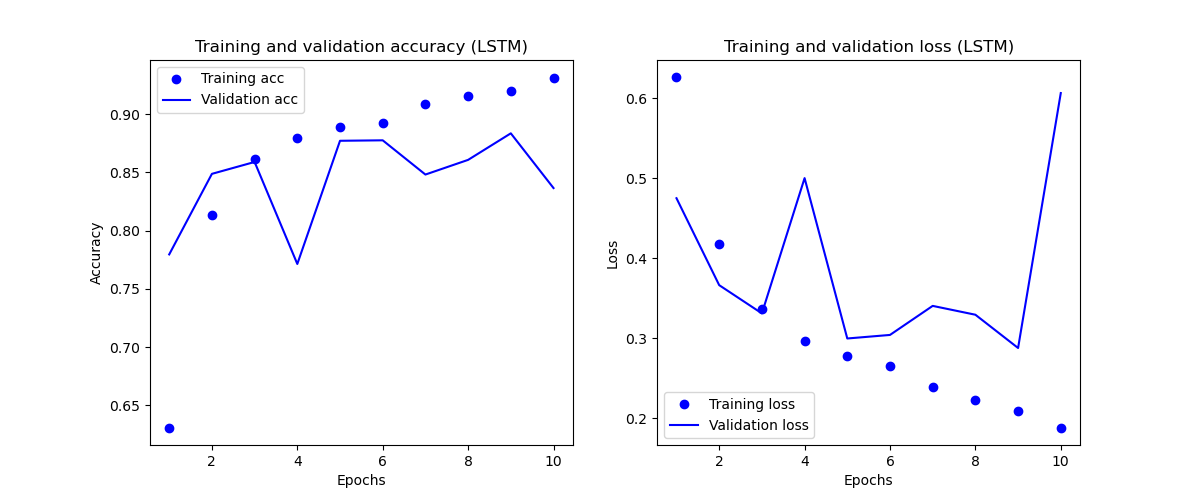
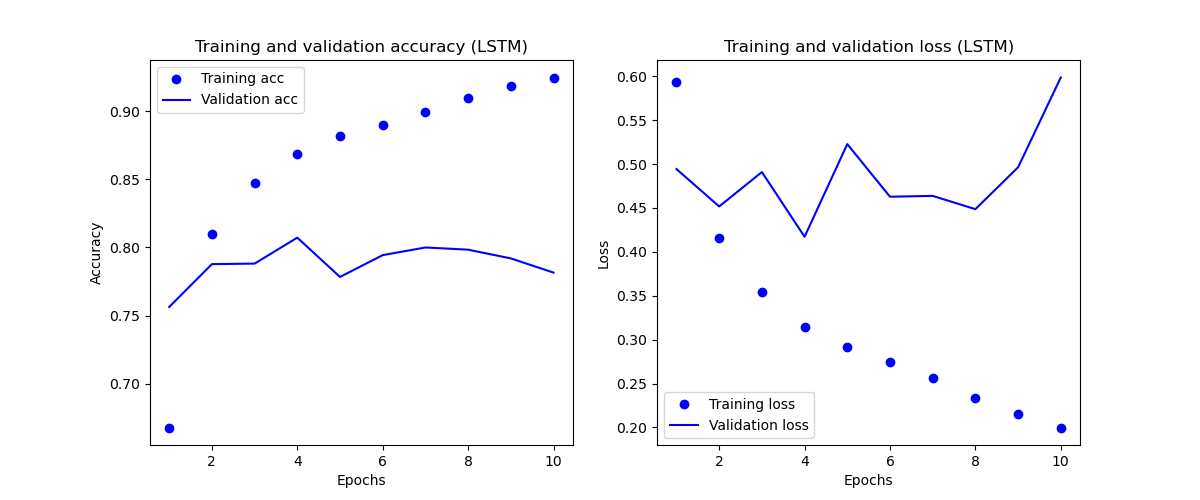
update

diff --git a/RNN/RNNClassifier.py b/RNN/RNNClassifier.py
@@ -4,14 +4,15 @@
 import numpy as np
 import matplotlib.pyplot as plt
 # Use modern TensorFlow Keras paths for all imports
+import tensorflow as tf
 from tensorflow.keras.datasets import imdb
 from tensorflow.keras.preprocessing.sequence import pad_sequences
 from tensorflow.keras.models import Sequential
 from tensorflow.keras.layers import Embedding, SimpleRNN, LSTM, Dense
 
-# --- 1. Configuration Parameters (Based on Textbook Excerpt) ---
+# --- 1. Configuration Parameters ---
 MAX_FEATURES = 10000  # Number of words to consider as features
-MAXLEN = 500          # Cut texts after this number of words
+MAXLEN = 50         # Cut texts after this number of words
 EMBEDDING_DIM = 32    # Dimensionality of the embedding vector
 RNN_UNITS = 32        # Number of units in the SimpleRNN/LSTM layer
 BATCH_SIZE = 128      # Batch size used for training
@@ -20,6 +21,7 @@ EPOCHS = 10
 # --- 2. Data Loading and Preprocessing ---
 print('Loading data...')
 # Load data, limiting to MAX_FEATURES (top 10000 words)
+# The data is already preprocessed into sequences of integers
 (input_train, y_train), (input_test, y_test) = imdb.load_data(num_words=MAX_FEATURES)
 
 print(f'{len(input_train)} train sequences')
@@ -27,6 +29,7 @@ print(f'{len(input_test)} test sequences')
 
 print(f'Pad sequences (samples x time) to maxlen={MAXLEN}...')
 # Pad the sequences to the consistent length (MAXLEN)
+# Sequences shorter than MAXLEN are padded with zeros, and longer sequences are truncated.
 input_train = pad_sequences(input_train, maxlen=MAXLEN)
 input_test = pad_sequences(input_test, maxlen=MAXLEN)
 
@@ -36,6 +39,12 @@ print('input_test shape:', input_test.shape)
 
 def plot_history(history, model_name):
     """Plots the training and validation accuracy and loss."""
+    # Ensure all keys are present before plotting
+    keys = history.history.keys()
+    if 'acc' not in keys or 'val_acc' not in keys:
+        print(f"Warning: 'acc' or 'val_acc' not found in history for {model_name}. Skipping plot.")
+        return
+
     acc = history.history['acc']
     val_acc = history.history['val_acc']
     loss = history.history['loss']
@@ -60,8 +69,11 @@ def plot_history(history, model_name):
     plt.ylabel('Loss')
     plt.legend()
     
-    plt.savefig(f'{model_name.lower().replace(" ", "_")}_performance.png')
-    print(f"\nPerformance charts for {model_name} saved to {model_name.lower().replace(' ', '_')}_performance.png")
+    # Save the figure to a file
+    filename = f'{model_name.lower().replace(" ", "_")}_performance.png'
+    plt.savefig(filename)
+    plt.close() # Close the figure to free memory
+    print(f"\nPerformance charts for {model_name} saved to {filename}")
 
 
 # ----------------------------------------------------------------------
@@ -71,26 +83,33 @@ print("\n" + "="*50)
 print("Building and training SimpleRNN classifier...")
 
 simple_rnn_model = Sequential()
+# Input: (batch_size, MAXLEN) integer indices
+# Output: (batch_size, MAXLEN, EMBEDDING_DIM) dense float vectors
 simple_rnn_model.add(Embedding(MAX_FEATURES, EMBEDDING_DIM, input_length=MAXLEN))
-# SimpleRNN layer returns only the last output (2D tensor) by default
+# SimpleRNN layer: processes sequence, returns final output vector (2D tensor)
 simple_rnn_model.add(SimpleRNN(RNN_UNITS))
+# Output dense layer for binary classification (sentiment)
 simple_rnn_model.add(Dense(1, activation='sigmoid'))
 
 simple_rnn_model.compile(optimizer='rmsprop', 
                          loss='binary_crossentropy', 
                          metrics=['acc'])
 
-print("\n--- SimpleRNN Model Summary ---")
-simple_rnn_model.summary()
+print("\n--- SimpleRNN Model Training ---")
 
+# Model building occurs here, triggered by the first call to fit
 simple_rnn_history = simple_rnn_model.fit(
     input_train, 
     y_train,
     epochs=EPOCHS,
     batch_size=BATCH_SIZE,
-    validation_split=0.2, # Validation split as per the textbook example
+    validation_split=0.2, 
     verbose=1
 )
+
+# Call summary *after* fit to show the correct parameter counts
+print("\n--- SimpleRNN Model Summary (After Build) ---")
+simple_rnn_model.summary()
 
 plot_history(simple_rnn_history, "SimpleRNN")
 
@@ -102,7 +121,7 @@ print("Building and training LSTM classifier...")
 
 lstm_model = Sequential()
 lstm_model.add(Embedding(MAX_FEATURES, EMBEDDING_DIM, input_length=MAXLEN))
-# LSTM layer (often performs much better than SimpleRNN on long sequences)
+# LSTM layer: often performs much better than SimpleRNN on long sequences
 lstm_model.add(LSTM(RNN_UNITS))
 lstm_model.add(Dense(1, activation='sigmoid'))
 
@@ -110,17 +129,20 @@ lstm_model.compile(optimizer='rmsprop',
                    loss='binary_crossentropy', 
                    metrics=['acc'])
 
-print("\n--- LSTM Model Summary ---")
-lstm_model.summary()
+print("\n--- LSTM Model Training ---")
 
 lstm_history = lstm_model.fit(
     input_train, 
     y_train,
     epochs=EPOCHS,
     batch_size=BATCH_SIZE,
-    validation_split=0.2, # Validation split as per the textbook example
+    validation_split=0.2, 
     verbose=1
 )
+
+# Move summary here to show correct parameters
+print("\n--- LSTM Model Summary (After Build) ---")
+lstm_model.summary()
 
 plot_history(lstm_history, "LSTM")
 

diff --git a/RNN/GPUCheckOnMac.py b/RNN/GPUCheckOnMac.py
@@ -1,0 +1,18 @@
+import tensorflow as tf
+from tensorflow.python.client import device_lib
+
+print(f"TensorFlow Version: {tf.__version__}")
+
+# check available device list
+available_devices = device_lib.list_local_devices()
+print("\nAvailable Devices:")
+for x in available_devices:
+    # Check if there GPU available
+    if 'GPU' in x.name or 'METAL' in x.name:
+        print(f"✅ FOUND ACCELERATOR: {x.name} ({x.device_type})")
+        
+# confirm it working.
+if tf.config.list_physical_devices('GPU'):
+    print("\n🎉 Success! TensorFlow is configured to use the GPU/Metal backend.")
+else:
+    print("\n⚠ Warning: No GPU detected. Check installation steps.")
